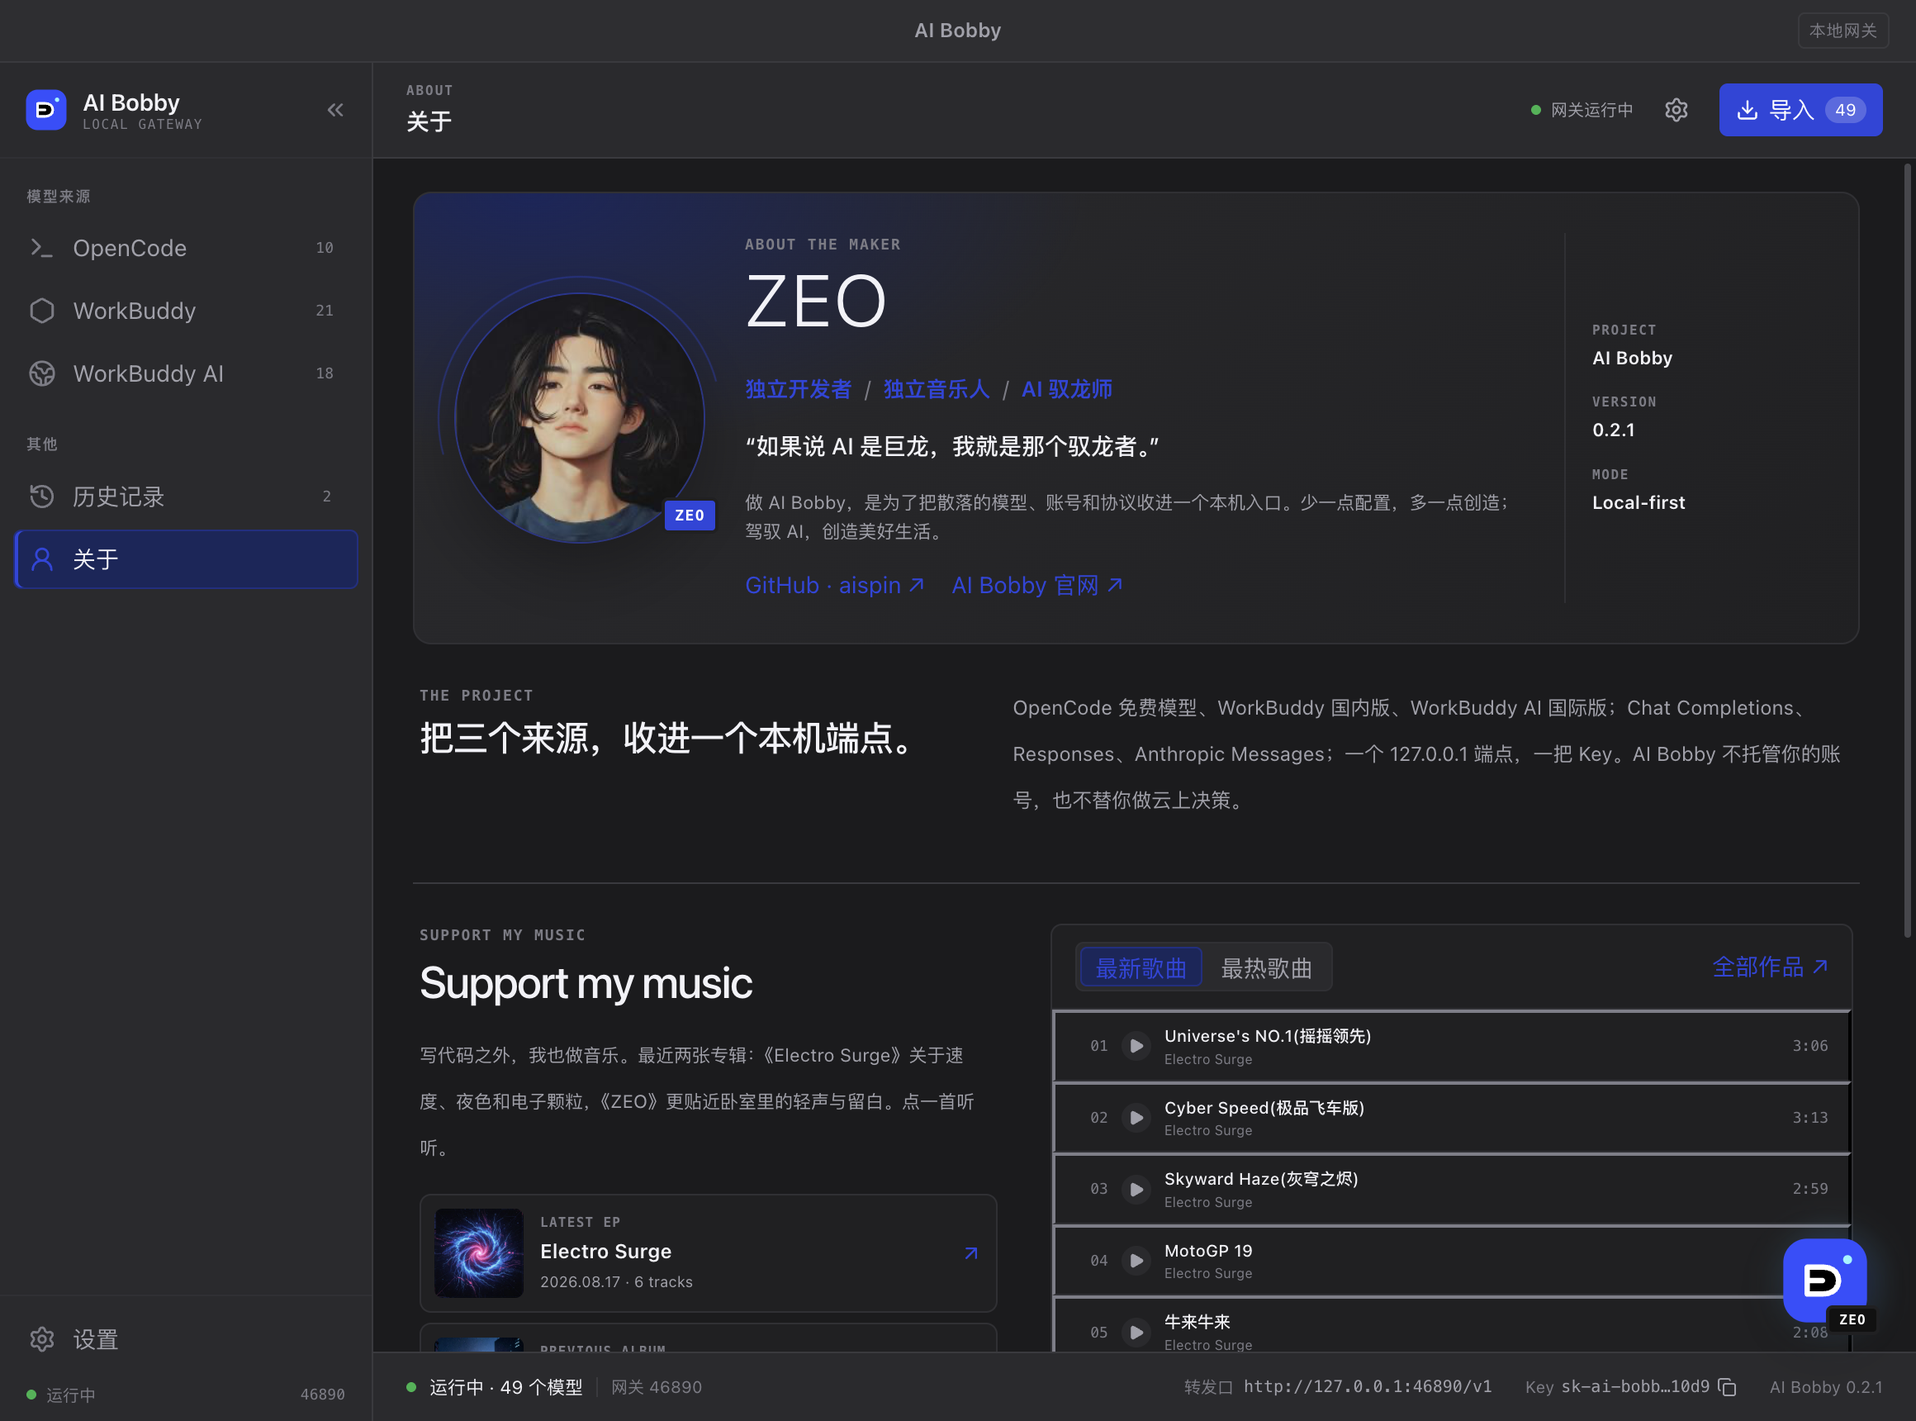
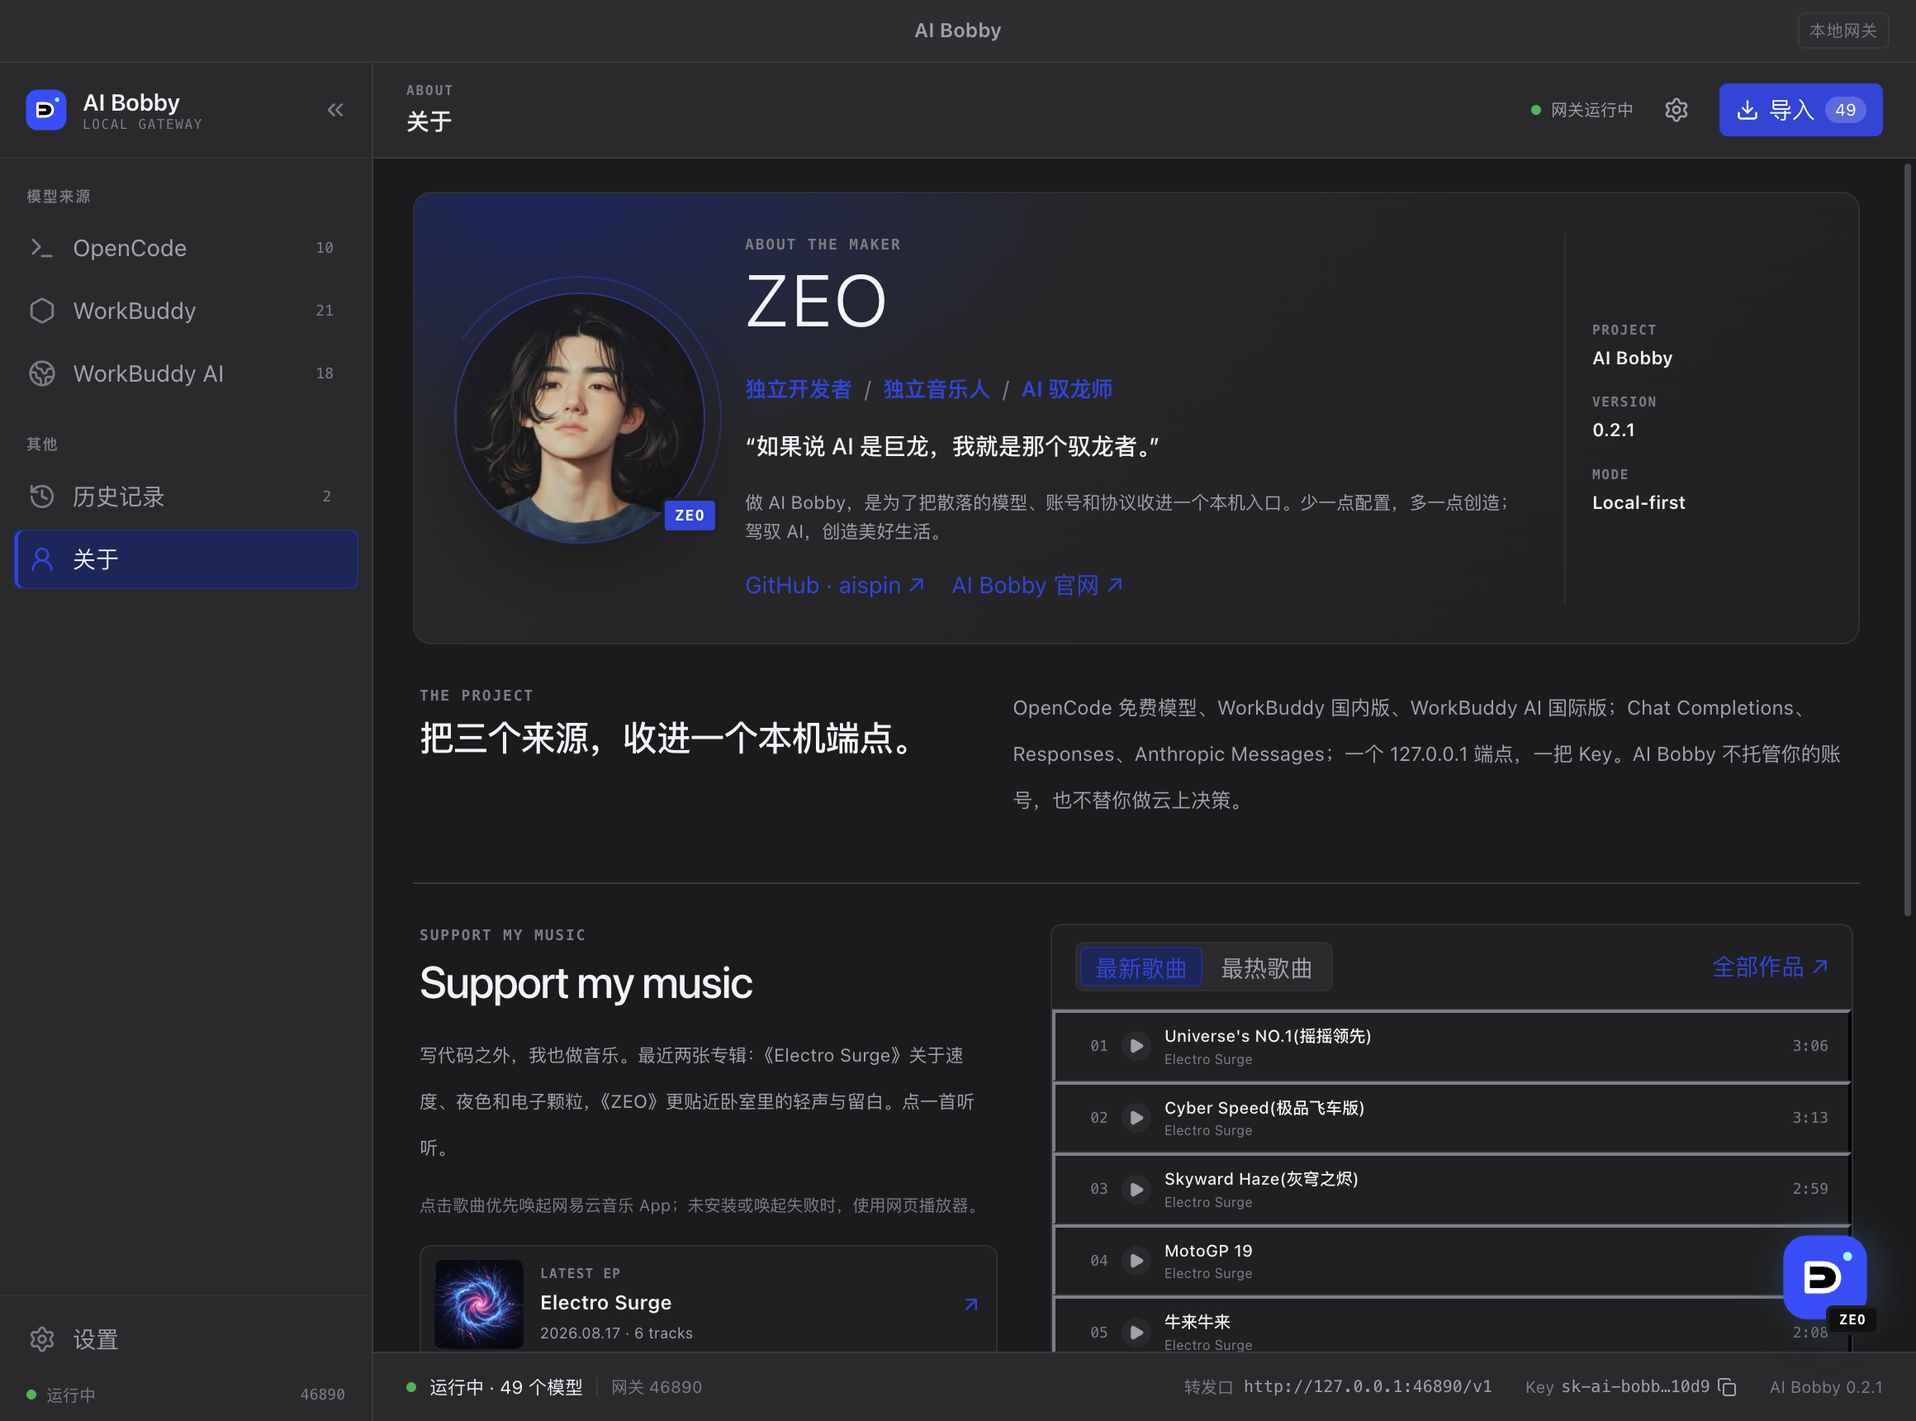
feat(desktop): open NetEase app for music playback
- launch the macOS NetEase client with the orpheus base64 payload
- detect the scheme handler and fall back to the iframe player
- add IPC/preload API plus payload and failure-path tests
- sync PRD, tech, README, handoff, issue status and About screenshot

diff --git a/apps/desktop/src/main/music-app.test.ts b/apps/desktop/src/main/music-app.test.ts
@@ -1,0 +1,66 @@
+import { beforeEach, describe, expect, it, vi } from 'vitest'
+
+const mocks = vi.hoisted(() => ({
+  getApplicationInfoForProtocol: vi.fn(),
+  openExternal: vi.fn(),
+}))
+
+vi.mock('electron', () => ({
+  app: { getApplicationInfoForProtocol: mocks.getApplicationInfoForProtocol },
+  shell: { openExternal: mocks.openExternal },
+}))
+
+import { playSongInNetease } from './music-app'
+
+describe('playSongInNetease', () => {
+  beforeEach(() => {
+    mocks.getApplicationInfoForProtocol.mockReset()
+    mocks.openExternal.mockReset()
+  })
+
+  it('opens the NetEase desktop client when it owns the scheme', async () => {
+    mocks.getApplicationInfoForProtocol.mockResolvedValue({
+      name: 'NetEaseMusic',
+      path: '/Applications/NeteaseMusic.app',
+    })
+    mocks.openExternal.mockResolvedValue(undefined)
+
+    await expect(playSongInNetease('3440589170')).resolves.toEqual({ ok: true })
+    expect(mocks.openExternal).toHaveBeenCalledWith(
+      'orpheus://eyJ0eXBlIjoic29uZyIsImlkIjozNDQwNTg5MTcwLCJjbWQiOiJwbGF5In0=',
+    )
+  })
+
+  it('returns no-app when the scheme is unhandled', async () => {
+    mocks.getApplicationInfoForProtocol.mockRejectedValue(new Error('not found'))
+    await expect(playSongInNetease('3440589170')).resolves.toEqual({ ok: false, reason: 'no-app' })
+    expect(mocks.openExternal).not.toHaveBeenCalled()
+  })
+
+  it('returns no-app when another app owns the scheme', async () => {
+    mocks.getApplicationInfoForProtocol.mockResolvedValue({
+      name: 'Google Chrome',
+      path: '/Applications/Google Chrome.app',
+    })
+    await expect(playSongInNetease('3440589170')).resolves.toEqual({ ok: false, reason: 'no-app' })
+  })
+
+  it('returns open-failed when the client cannot be launched', async () => {
+    mocks.getApplicationInfoForProtocol.mockResolvedValue({
+      name: 'NetEaseMusic',
+      path: '/Applications/NeteaseMusic.app',
+    })
+    mocks.openExternal.mockRejectedValue(new Error('launch failed'))
+
+    await expect(playSongInNetease('3440589170')).resolves.toEqual({
+      ok: false,
+      reason: 'open-failed',
+      error: 'launch failed',
+    })
+  })
+
+  it('rejects malformed ids before probing the scheme', async () => {
+    await expect(playSongInNetease('not-a-song')).resolves.toEqual({ ok: false, reason: 'invalid-id' })
+    expect(mocks.getApplicationInfoForProtocol).not.toHaveBeenCalled()
+  })
+})

diff --git a/apps/desktop/src/renderer/src/App.tsx b/apps/desktop/src/renderer/src/App.tsx
@@ -230,6 +230,25 @@ function AppInner() {
     else window.open(url, '_blank', 'noopener,noreferrer')
   }, [])
 
+  const playTrack = useCallback(async (track: MusicTrack) => {
+    const api = window.aiBobby
+    if (!api) {
+      setMusicTrack(track)
+      return
+    }
+    const result = await api.playInMusicApp(track.id).catch(() => ({ ok: false, reason: 'open-failed' as const }))
+    if (result.ok) {
+      setMusicTrack(null)
+      toast.success(`已在网易云音乐中播放《${track.title}》`)
+      return
+    }
+    setMusicTrack(track)
+    if (result.reason === 'no-app') toast.info('未找到网易云音乐 App，已切换到网页播放器')
+    else if (result.reason === 'unsupported-platform') toast.info('当前平台不支持唤起 App，已切换到网页播放器')
+    else if (result.reason === 'invalid-id') toast.error('歌曲 ID 无效，已切换到网页播放器')
+    else toast.warning('唤起网易云音乐失败，已切换到网页播放器')
+  }, [])
+
   const restoreBackup = useCallback(async (id: string) => {
     const api = window.aiBobby
     if (!api) {
@@ -744,7 +763,7 @@ function AppInner() {
               onRestore={restoreBackup}
             />
           ) : page === 'about' ? (
-            <AboutPage version={appInfo?.version ?? APP_FALLBACK.version} onPlay={setMusicTrack} onOpenExternal={openExternal} />
+            <AboutPage version={appInfo?.version ?? APP_FALLBACK.version} onPlay={track => void playTrack(track)} onOpenExternal={openExternal} />
           ) : (
             <SettingsPage
               appInfo={appInfo}

diff --git a/apps/desktop/src/main/music-app.ts b/apps/desktop/src/main/music-app.ts
@@ -1,0 +1,46 @@
+import { app, shell } from 'electron'
+import type { MusicAppResult } from '../shared/api'
+import { orpheusSongUrl } from './music-app-core'
+
+const NETEASE_HANDLER = /netease|网易云/i
+
+/**
+ * NetEase's macOS client registers `orpheus://` and accepts a base64 JSON
+ * payload for desktop playback. The mobile `orpheus://song/<id>` form only
+ * foregrounds the client on macOS, so we use the payload verified by the web
+ * client instead.
+ */
+export async function playSongInNetease(songId: string): Promise<MusicAppResult> {
+  if (process.platform !== 'darwin') {
+    return { ok: false, reason: 'unsupported-platform' }
+  }
+
+  let url: string
+  try {
+    url = orpheusSongUrl(songId)
+  } catch {
+    return { ok: false, reason: 'invalid-id' }
+  }
+
+  let handler: Electron.ApplicationInfoForProtocolReturnValue | undefined
+  try {
+    handler = await app.getApplicationInfoForProtocol(url)
+  } catch {
+    return { ok: false, reason: 'no-app' }
+  }
+  const identity = `${handler?.name ?? ''} ${handler?.path ?? ''}`
+  if (identity.trim() === '' || !NETEASE_HANDLER.test(identity)) {
+    return { ok: false, reason: 'no-app' }
+  }
+
+  try {
+    await shell.openExternal(url)
+    return { ok: true }
+  } catch (error) {
+    return {
+      ok: false,
+      reason: 'open-failed',
+      error: error instanceof Error ? error.message : String(error),
+    }
+  }
+}

diff --git a/apps/desktop/src/renderer/src/components/about-page.tsx b/apps/desktop/src/renderer/src/components/about-page.tsx
@@ -63,6 +63,7 @@ export function AboutPage({ version, onPlay, onOpenExternal }: AboutPageProps) {
           <div className="font-mono text-[9px] font-semibold tracking-[0.1em] text-faint">SUPPORT MY MUSIC</div>
           <h2 className="mt-1 text-[27px] font-medium leading-tight tracking-[-0.035em] text-text">Support my music</h2>
           <p className="mt-2.5 max-w-[390px] text-[11px] leading-7 text-muted-foreground">写代码之外，我也做音乐。最近两张专辑：《Electro Surge》关于速度、夜色和电子颗粒，《ZEO》更贴近卧室里的轻声与留白。点一首听听。</p>
+          <p className="mt-1 max-w-[390px] text-[10px] leading-5 text-faint">点击歌曲优先唤起网易云音乐 App；未安装或唤起失败时，使用网页播放器。</p>
           <div className="mt-3.5 flex max-w-[390px] flex-col gap-1.5">
             {ALBUMS.map((album, index) => (
               <button

diff --git a/apps/desktop/src/shared/api.ts b/apps/desktop/src/shared/api.ts
@@ -125,6 +125,16 @@ export interface ImportHistorySnapshot {
   backups: ImportBackupSnapshot[]
 }
 
+export type MusicAppFailureReason =
+  | 'unsupported-platform'
+  | 'no-app'
+  | 'open-failed'
+  | 'invalid-id'
+
+export type MusicAppResult =
+  | { ok: true }
+  | { ok: false; reason: MusicAppFailureReason; error?: string }
+
 export interface AiBobbyApi {
   getAppInfo(): Promise<AppInfo>
   getStatus(): Promise<GatewayStatus>
@@ -136,6 +146,7 @@ export interface AiBobbyApi {
   importRollback(target: ImportTargetName): Promise<ImportPlanSnapshot>
   getImportHistory(): Promise<ImportHistorySnapshot>
   restoreImportBackup(id: string): Promise<ImportPlanSnapshot>
+  playInMusicApp(songId: string): Promise<MusicAppResult>
   checkForUpdates(manual?: boolean): Promise<UpdateCheckResult>
   setAutoCheck(enabled: boolean): Promise<void>
   downloadUpdate(): Promise<UpdateActionResult>

diff --git a/apps/desktop/src/main/music-app-core.test.ts b/apps/desktop/src/main/music-app-core.test.ts
@@ -1,0 +1,23 @@
+import { describe, expect, it } from 'vitest'
+import { normalizeSongId, orpheusSongUrl } from './music-app-core'
+
+describe('music app deep link', () => {
+  it('matches the payload used by the NetEase web client', () => {
+    expect(orpheusSongUrl(29816860)).toBe(
+      'orpheus://eyJ0eXBlIjoic29uZyIsImlkIjoyOTgxNjg2MCwiY21kIjoicGxheSJ9',
+    )
+  })
+
+  it('accepts numeric strings and trims no digits', () => {
+    expect(normalizeSongId('3440589170')).toBe(3440589170)
+    expect(orpheusSongUrl('3440589170')).toBe(
+      'orpheus://eyJ0eXBlIjoic29uZyIsImlkIjozNDQwNTg5MTcwLCJjbWQiOiJwbGF5In0=',
+    )
+  })
+
+  it('rejects invalid ids', () => {
+    expect(() => normalizeSongId('0')).toThrow('歌曲 ID')
+    expect(() => normalizeSongId('-1')).toThrow('歌曲 ID')
+    expect(() => normalizeSongId('abc')).toThrow('歌曲 ID')
+  })
+})

diff --git a/apps/desktop/src/main/index.ts b/apps/desktop/src/main/index.ts
@@ -2,6 +2,7 @@ import { app, BrowserWindow, clipboard, ipcMain, Menu, nativeImage, shell, Tray 
 import { join } from 'node:path'
 import type { UpdateCheckResult, UpdateInfo } from '../shared/api'
 import { checkForUpdates, downloadUpdate, installUpdate, updateSource } from './updater'
+import { playSongInNetease } from './music-app'
 import { Services } from './services'
 import { appVersion } from './version'
 
@@ -190,6 +191,8 @@ function registerIpc(): void {
   })
 
   ipcMain.handle('update:install', async () => installUpdate())
+
+  ipcMain.handle('app:play-music', async (_event, songId: string) => playSongInNetease(String(songId)))
 
   ipcMain.handle('app:open-external', async (_event, url: string) => {
     if (/^https?:\/\//i.test(url)) await shell.openExternal(url)

diff --git a/apps/desktop/src/main/music-app-core.ts b/apps/desktop/src/main/music-app-core.ts
@@ -1,0 +1,18 @@
+export interface OrpheusSongPayload {
+  type: 'song'
+  id: number
+  cmd: 'play'
+}
+
+export function normalizeSongId(value: string | number): number {
+  const id = typeof value === 'number' ? value : Number.parseInt(value, 10)
+  if (!Number.isSafeInteger(id) || id <= 0) {
+    throw new Error('歌曲 ID 必须是正整数')
+  }
+  return id
+}
+
+export function orpheusSongUrl(value: string | number): string {
+  const payload: OrpheusSongPayload = { type: 'song', id: normalizeSongId(value), cmd: 'play' }
+  return `orpheus://${Buffer.from(JSON.stringify(payload), 'utf8').toString('base64')}`
+}

diff --git a/apps/desktop/src/preload/index.ts b/apps/desktop/src/preload/index.ts
@@ -12,6 +12,7 @@ const api: AiBobbyApi = {
   importRollback: target => ipcRenderer.invoke('import:rollback', target),
   getImportHistory: () => ipcRenderer.invoke('import:history'),
   restoreImportBackup: id => ipcRenderer.invoke('import:restore-backup', id),
+  playInMusicApp: songId => ipcRenderer.invoke('app:play-music', songId),
   checkForUpdates: manual => ipcRenderer.invoke('update:check', Boolean(manual)),
   setAutoCheck: enabled => ipcRenderer.invoke('app:set-auto-check', Boolean(enabled)),
   downloadUpdate: () => ipcRenderer.invoke('update:download'),

diff --git a/docs/tech.md b/docs/tech.md
@@ -1429,6 +1429,7 @@ interface AiBobbyApi {
   importRollback(target: ImportTargetName): Promise<ImportPlanSnapshot>
   getImportHistory(): Promise<ImportHistorySnapshot>
   restoreImportBackup(id: string): Promise<ImportPlanSnapshot>
+  playInMusicApp(songId: string): Promise<MusicAppResult>
 
   checkForUpdates(manual?: boolean): Promise<UpdateCheckResult>
   setAutoCheck(enabled: boolean): Promise<void>
@@ -1477,7 +1478,7 @@ App
 - `selected`：跨来源的选中模型集合；导入抽屉共享。
 - `page`：多页导航；`sidebarCollapsed`、主题、自动检查、头像/播放器位置存 `localStorage`。
 - `history`：`getImportHistory()` 拉取；进入历史页、导入后、恢复后刷新。
-- `musicTrack`：全局单曲状态；关闭时卸载 iframe。
+- `musicTrack`：全局单曲状态；App 唤起成功时关闭，关闭 iframe 时卸载；失败时作为兜底播放。
 - 主题：`data-theme` + CSS 变量；只在设置页修改。
 
 样式：
@@ -1490,6 +1491,34 @@ App
   label 间距 8px，避免浅色下白色滑块与背景融合。
 - 表格列宽：勾选 36、模型 flex、能力 120、状态 110、耗时 140。
 - 无横向滚动；窄窗时隐藏“能力”列。
+
+### 8.5.1 关于页音乐播放
+
+优先唤起网易云音乐 macOS 客户端，失败时回退到 iframe。
+
+- 桌面深链：`orpheus://<base64(JSON)>`，payload 为
+  `{"type":"song","id":<songId>,"cmd":"play"}`。
+- 不要使用移动端的 `orpheus://song/<id>`：在 macOS 客户端上只会把应用带到前台，不会切歌。
+- `src/main/music-app-core.ts` 校验歌曲 ID 并生成 URL；`music-app.ts` 负责检测 handler 与打开。
+- handler 检测：`app.getApplicationInfoForProtocol(url)`，名称/路径需匹配 `netease|网易云`；不匹配返回 `no-app`。
+- 打开：`shell.openExternal(url)`；失败返回 `open-failed`。仅 macOS 实现，其他平台返回 `unsupported-platform`。
+- IPC：`app:play-music`；preload 暴露 `playInMusicApp(songId)`，返回 `{ ok: true }` 或 `{ ok:false, reason, error? }`。
+- Renderer：`ok` 时关闭 iframe；失败时把 track 写入 `musicTrack`，由 `FloatingMusicPlayer` 显示 `outchain` iframe。
+- 局限：`orpheus://` 不是公开稳定协议，可能随客户端更新失效；“唤起成功”只代表客户端接收了 URL，
+  登录、会员、版权与地区限制仍由网易云客户端处理。
+
+验证：macOS 网易云音乐 3.1.12.3443 实测 payload 可把播放器切到目标歌曲；
+单测覆盖 URL 生成、无 handler、handler 非网易云、打开失败、非法 ID。
+
+参考：
+
+- `ncm-cli` 对桌面端 `orpheus://base64(json)` 的说明：
+  <https://github.com/Davied-H/ncm-cli/blob/main/docs/ncm-api-exploration.md>
+- `ncm-cli` URL 生成实现：
+  <https://github.com/Davied-H/ncm-cli/blob/main/internal/desktop/orpheus.go>
+- Electron `app.getApplicationInfoForProtocol`：
+  <https://www.electronjs.org/docs/latest/api/app#appgetapplicationinfoforprotocolurl>
+- 本机网易云音乐 3.1.12.3443 `Info.plist` 注册 `orpheus` scheme（`com.netease.163music`）。
 
 ### 8.6 窗口与托盘
 

diff --git a/README.md b/README.md
@@ -9,7 +9,7 @@
 > 四个 importer、自动更新与 curl 安装链路均已落地。
 > v0.2.2 改版包含：可收起左侧栏 + 多页导航、主题只在设置页、导入历史与备份恢复、
 > 关于 ZEO 与音乐、可拖动应用 LOGO 头像、全局可拖动音乐播放器、更新条/设置 UI；
-> 设置页开关已做浅色对比度修复。
+> 设置页开关已做浅色对比度修复；关于页歌曲优先唤起网易云音乐 App，失败回退网页播放器。
 > **发布需要你本机验收后确认；在此之前不创建 tag/release。**
 > 真实 Codex 0.154、Claude Code 2.1、OpenCode `oc/space-bunny-free` 已在本机跑通；
 > **WorkBuddy 真实账号登录仍需要你本人扫码验证**。
@@ -84,7 +84,8 @@ Little Snitch 会把“未签名进程要联网”标成风险，这是签名状
 5. 在底部状态条复制 **转发口** 与 **API Key**，填到 Codex / Claude Code / DSH / WorkBuddy。
 6. **历史记录**页查看每次写入、diff 与备份，可一键恢复；恢复前会再备份当前文件。
 7. **设置**页切换主题、手动检查更新、复制网关地址/Key；**关于**页有 ZEO、音乐与赞助方式。
-8. 右下角应用 LOGO 头像可拖动，点击进入关于；播放音乐后出现全局可拖动播放器。
+8. 点击关于页歌曲会优先唤起本机网易云音乐 App；未安装或唤起失败时，自动使用全局可拖动网页播放器。
+9. 右下角应用 LOGO 头像可拖动，点击进入关于。
 
 ## 接入客户端
 
@@ -246,6 +247,11 @@ xattr -dr com.apple.quarantine "$HOME/Applications/AI Bobby.app"
 确认已重启对应客户端；在导入预览里检查目标路径与 diff。
 Codex/Claude 的配置块只改 AI Bobby 标记的部分，不会覆盖其他 provider。
 
+**关于页点击歌曲没有在 App 中播放**
+
+确认已安装网易云音乐 macOS 客户端，并允许系统通过 `orpheus://` 唤起它。
+未安装或唤起失败时，AI Bobby 会自动切到网页播放器；App 内能否播放仍取决于登录、会员、版权与地区限制。
+
 ## 当前实现
 
 - `packages/core`：模型注册表、Canonical 请求/事件、错误与日志脱敏
@@ -254,7 +260,8 @@ Codex/Claude 的配置块只改 AI Bobby 标记的部分，不会覆盖其他 pr
 - `packages/workbuddy`：官方登录 state/poll、AccountStore、目录/兜底、chat SSE、刷新、billing、多账号调度
 - `packages/opencode`：npm 运行时下载/SHA-512 校验、隔离 serve、免费模型过滤、CLI `run` 转发与工具信封
 - `packages/importers`：WorkBuddy / Codex / Claude Code / DSH 的 dry-run / 备份 / 原子写 / 回滚
-- `apps/desktop`：主进程启动 46890 网关，renderer 读真实模型/账号，内嵌登录窗口与导入 IPC
+- `apps/desktop`：主进程启动 46890 网关，renderer 读真实模型/账号，内嵌登录窗口与导入 IPC；
+  关于页优先唤起网易云 App，失败回退 iframe 播放器
 - `apps/cli`：无界面起网关
 
 ## 技术栈
